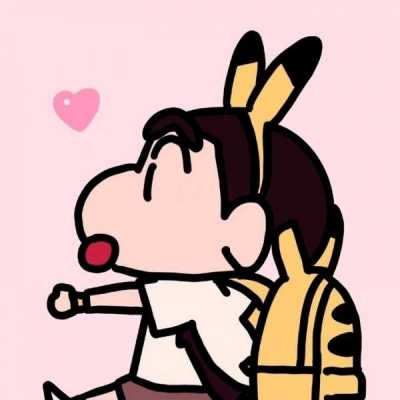
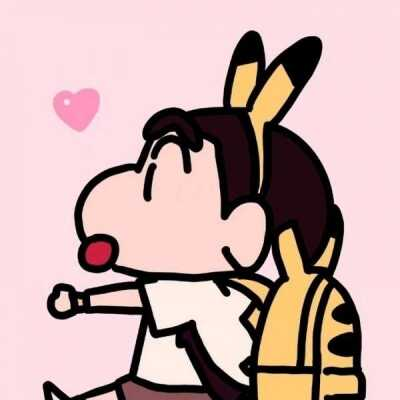
minimize img and fix Footer bug

diff --git a/src/view/Info.vue b/src/view/Info.vue
@@ -54,7 +54,9 @@ export default {
       this.$store.commit('setToken', '');
       this.$store.commit('setUserName', '');
       this.$store.commit('setSrc', '');
+      this.$store.commit('setShowFooter', false)
       this.$router.push('/login');
+      
     },
     loadAvatar() {
       const num = Math.floor(Math.random() * 20 + 1);
